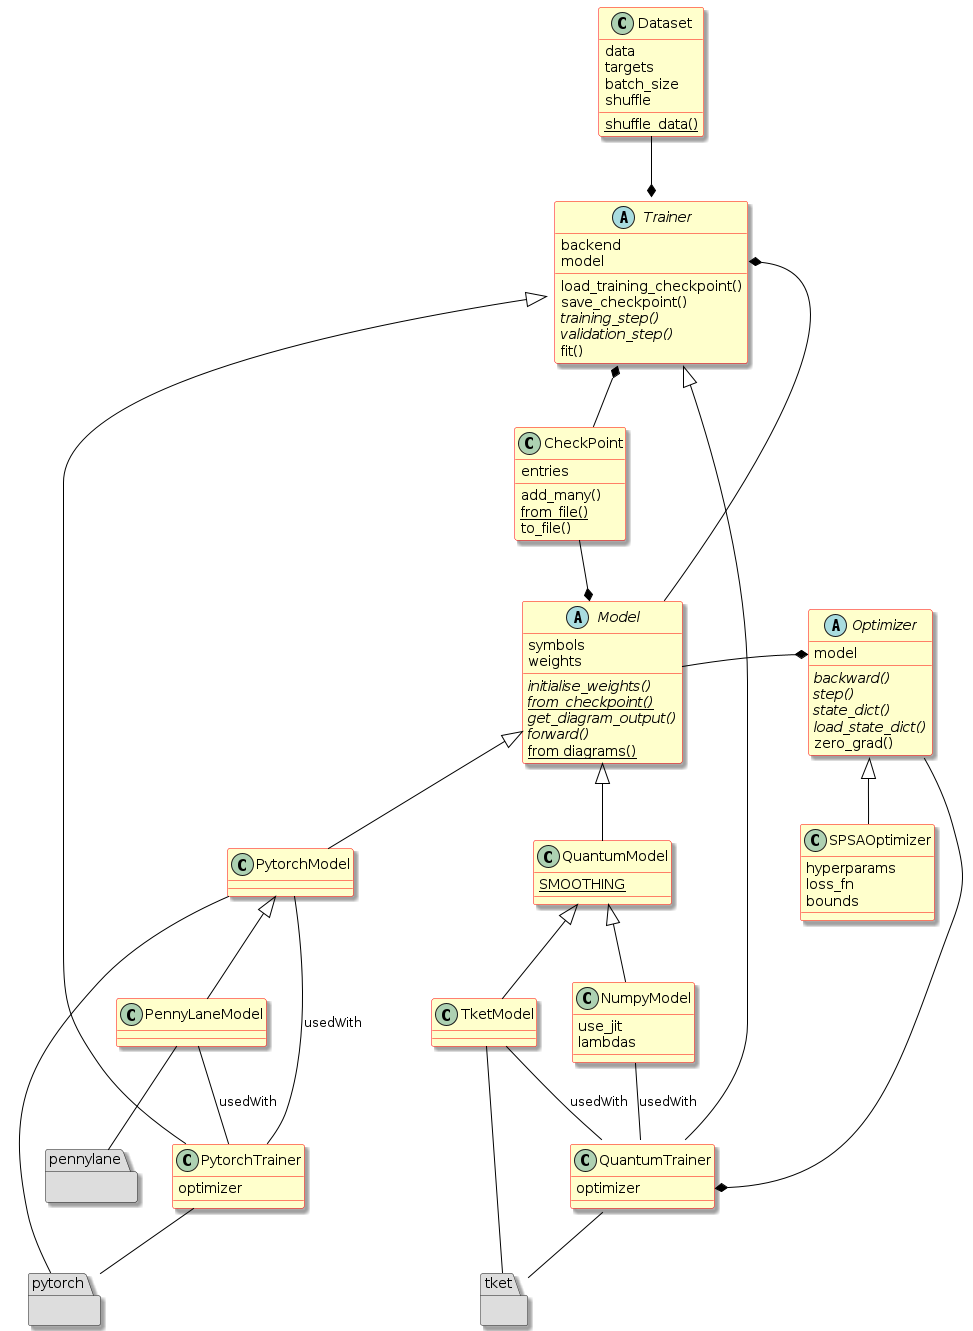
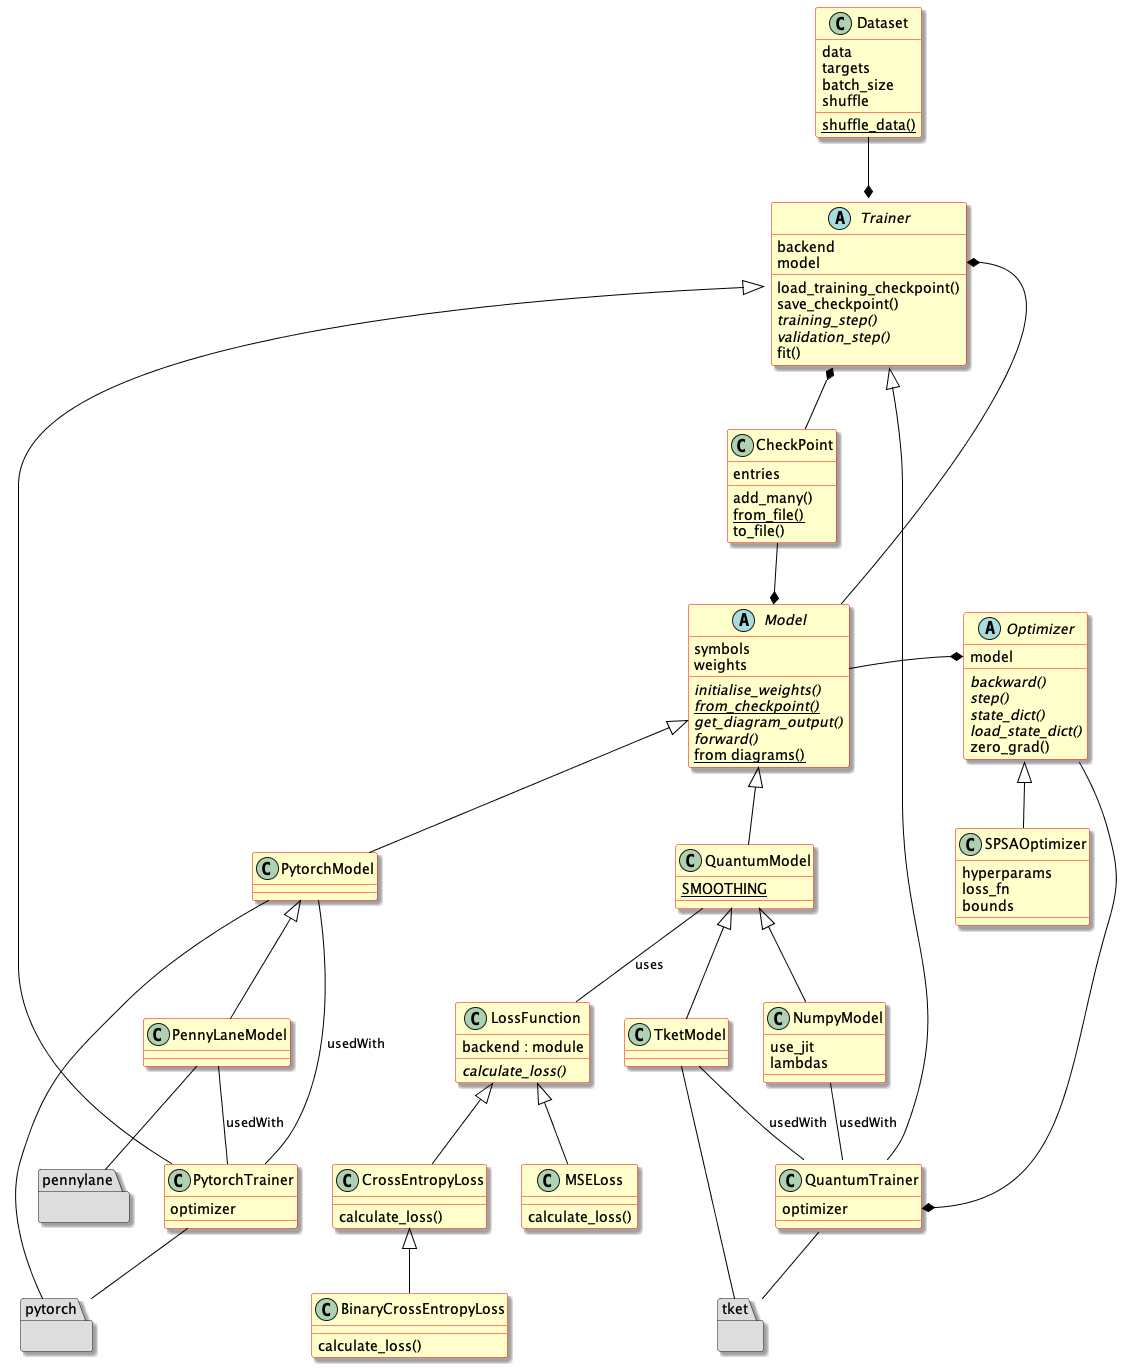
docs: add documentation of loss functions (#447)
Adds details about loss functions in the docs.

diff --git a/docs/training.rst b/docs/training.rst
@@ -7,13 +7,14 @@ In ``lambeq``, all low-level processing that takes place in training is hidden i
 
 - :py:class:`.Dataset`: A class that provides functionality for easy management and manipulation of datasets, including batching, shuffling, and preparation based on the selected backend (tket, NumPy, PyTorch).
 - :py:class:`.Model`: The abstract interface for ``lambeq`` :term:`models <model>`. A :term:`model` bundles the basic attributes and methods used for training, given a specific backend. It stores the :term:`symbols <symbol>` and the corresponding weights, and implements the forward pass of the model. Concrete implementations are the :py:class:`.PytorchModel`, :py:class:`.TketModel`, :py:class:`.NumpyModel`, and :py:class:`.PennyLaneModel` classes (for more details see Section :ref:`sec-models` below).
-- :py:class:`.Optimizer`: a ``lambeq`` optimizer calculates the gradient of a given loss function with respect to the parameters of a model. It contains a :py:meth:`~lambeq.Optimizer.step` method to modify the model parameters according to the optimizer's update rule. Currently, we support the SPSA algorithm by [Spa1998]_, implemented in the :py:class:`.SPSAOptimizer` class.
-- :py:class:`.Trainer`: The main interface for supervised learning in ``lambeq``. A :term:`trainer` implements the (quantum) machine learning routine given a specific backend, using a loss function and an optimizer. Concrete implementations are the :py:class:`.PytorchTrainer` and :py:class:`.QuantumTrainer` classes.
+- :py:class:`.LossFunction`: Implementations of this class compute the distance between the predicted values of the :term:`model` and the true values in the dataset. This is used to adjust the model weights so that the average loss accross all data instances can be minimised. ``lambeq`` supports a number of loss functions, such as :py:class:`.CrossEntropyLoss`, :py:class:`.BinaryCrossEntropyLoss`, and :py:class:`.MSELoss`.
+- :py:class:`.Optimizer`: a ``lambeq`` optimizer calculates the gradient of a given :term:`loss function` with respect to the parameters of a model. It contains a :py:meth:`~lambeq.Optimizer.step` method to modify the model parameters according to the optimizer's update rule. Currently, we support the SPSA algorithm by [Spa1998]_, implemented in the :py:class:`.SPSAOptimizer` class for the quantum case, and PyTorch optimizers for the classical and hybrid cases.
+- :py:class:`.Trainer`: The main interface for supervised learning in ``lambeq``. A :term:`trainer` implements the (quantum) machine learning routine given a specific backend, using a :term:`loss function` and an optimizer. Concrete implementations are the :py:class:`.PytorchTrainer` and :py:class:`.QuantumTrainer` classes.
 
 The process of training a :term:`model` involves the following steps:
 
 1. Instantiate the :py:class:`.Model`.
-2. Instantiate a :py:class:`.Trainer`, passing to it a :term:`model`, a loss function, and an optimizer.
+2. Instantiate a :py:class:`.Trainer`, passing to it a :term:`model`, a :term:`loss function`, and an optimizer.
 3. Create a :py:class:`.Dataset` for training, and optionally, one for evaluation.
 4. Train the :term:`model` by handing the dataset to the :py:meth:`~lambeq.Trainer.fit` method of the :term:`trainer`.
 

diff --git a/docs/glossary.rst b/docs/glossary.rst
@@ -59,6 +59,9 @@ Glossary
     IQP circuit
         Instantaneous Quantum Polynomial. A circuit which interleaves layers of Hadamard :term:`quantum gates <quantum gate>` with diagonal unitaries.
 
+    loss function
+        In machine learning, a function that estimates how far the prediction of a :term:`model` is from its true value. The purpose of training is to minimise the loss over the training set.
+
     matrix product state (MPS)
         A factorization of a large tensor into a chain-like product of smaller tensors. ``lambeq`` is equipped with :term:`ansätze <ansatz (plural: ansätze)>` that implement various forms of matrix product states, allowing the execution of large :term:`tensor networks <tensor network>` on classical hardware.
 

diff --git a/docs/package-api.rst b/docs/package-api.rst
@@ -166,8 +166,12 @@ Provides a selection of :term:`trainers <trainer>`, :term:`models <model>`, and 
 .. rubric:: Classes
 
 .. inheritance-diagram::
+    lambeq.training.BinaryCrossEntropyLoss
     lambeq.training.Checkpoint
+    lambeq.training.CrossEntropyLoss
     lambeq.training.Dataset
+    lambeq.training.MSELoss
+    lambeq.training.LossFunction
     lambeq.training.NumpyModel
     lambeq.training.PytorchModel
     lambeq.training.PytorchTrainer

diff --git a/docs/puml/README.md b/docs/puml/README.md
@@ -1,0 +1,7 @@
+# Creating PNG files
+
+The PNG files in folder `img` must be generated manually from the PUML files. Assuming you have installed PlantUML in a `/plantuml` folder, you can generate the PNG files with the following command:
+
+```bash
+java -DPLANTUML_LIMIT_SIZE=8192 -jar /plantuml/plantuml.jar -o img/ .
+```
